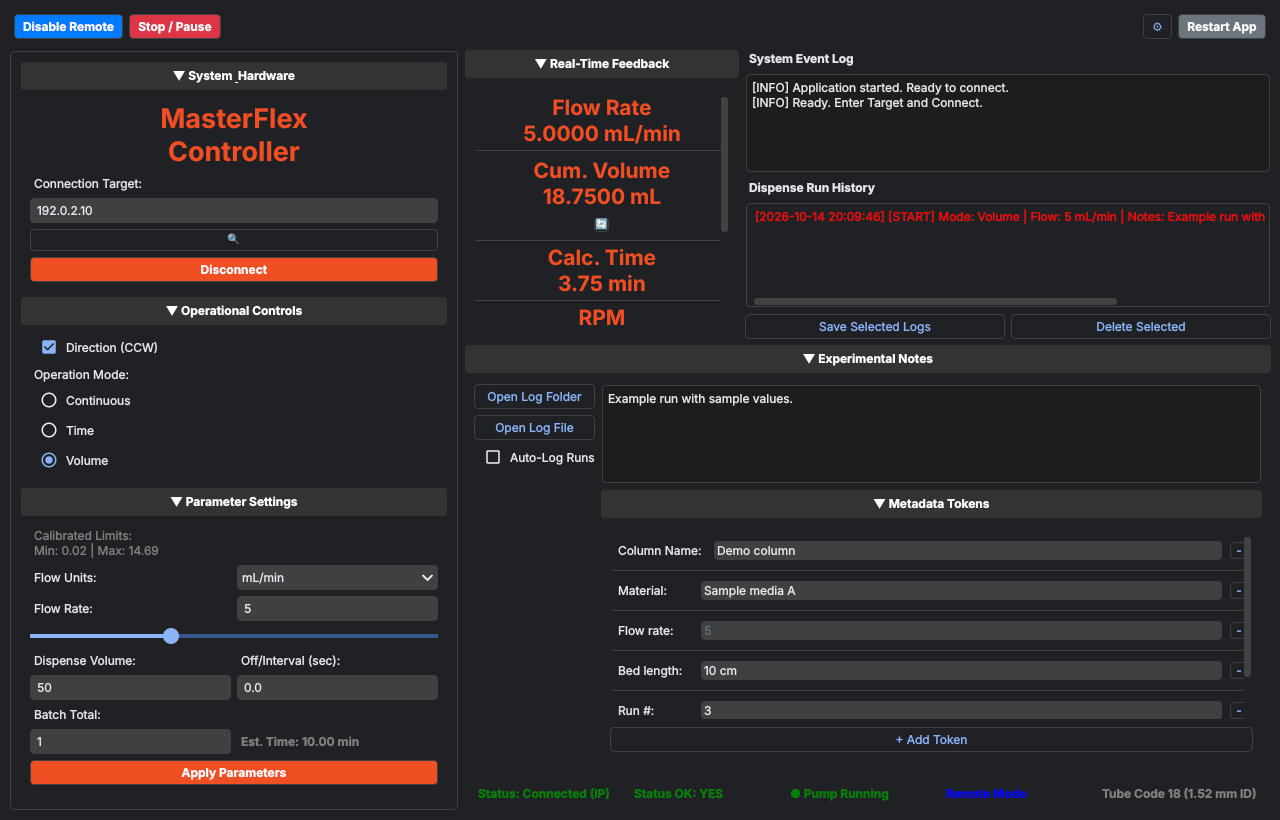
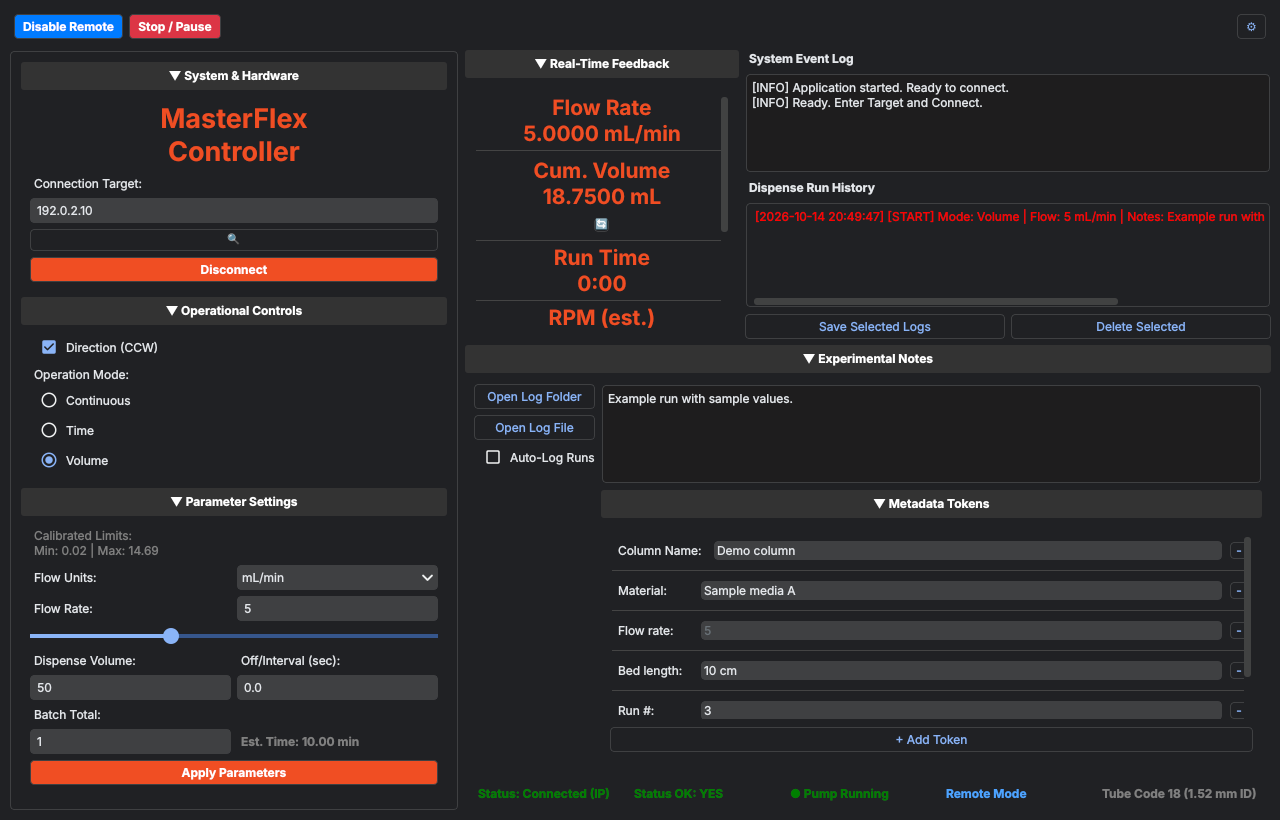
Show 'System & Hardware' correctly and refresh the screenshot
Qt read the single & in the panel title as a keyboard-shortcut marker and showed 'System_Hardware'. The README screenshot is redrawn for the new Run Time and RPM tiles, the Remote Mode colour and the top bar without Restart.

Claude-Session: https://claude.ai/code/session_013qZ2XC83yhy8HK2aqmmCBq

diff --git a/pump_gui.py b/pump_gui.py
@@ -134,7 +134,8 @@ class CollapsibleBox(QWidget):
         main_layout.addWidget(self.content_area)
 
     def on_toggle(self, checked):
-        self.toggle_button.setText(f"▼ {self.title_text}" if checked else f"▶ {self.title_text}")
+        title = self.title_text.replace("&", "&&")  # a single & would become a keyboard shortcut
+        self.toggle_button.setText(f"▼ {title}" if checked else f"▶ {title}")
         self.content_area.setVisible(checked)
 
 
